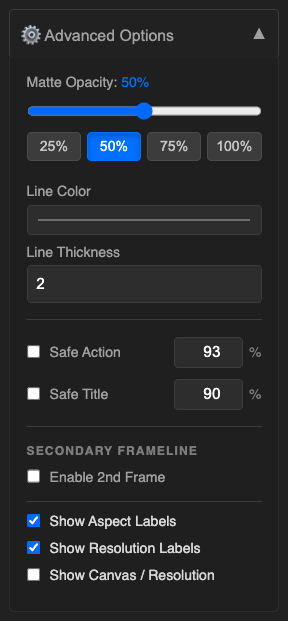
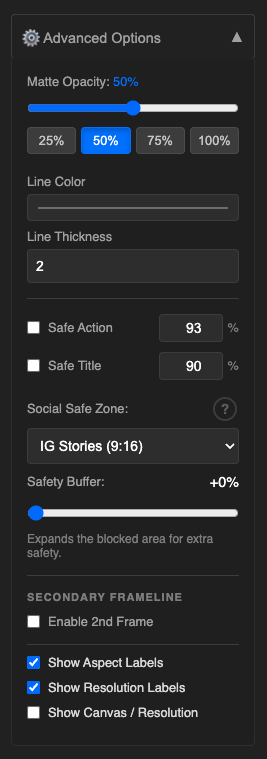
Agregué Social Safe Zones a la guía

diff --git a/guide.html b/guide.html
@@ -372,10 +372,19 @@
                     <li><strong>Line Appearance:</strong> Customize the <strong>Color</strong> and <strong>Thickness</strong> (in pixels) of the main guide to ensure maximum visibility against your footage.</li>
         
                     <li><strong>Safe Areas:</strong> Toggles standard broadcast safety margins—<strong>Action Safe</strong> (93%) and <strong>Title Safe</strong> (90%)—to ensure critical elements aren't cut off on consumer displays.</li>
+
+                    <li><strong>Social Safe Zones:</strong>   Displays framing-safe zones for vertical, mobile-delivered content from social media UI
+  overlays (captions, buttons, avatars) on platforms like Instagram and TikTok.</li>
         
                     <li><strong>Data Labels:</strong> Displays the Aspect Ratio (e.g., "2.39") and Resolution (e.g., "1920 x 804") text directly on the overlay. Essential for DITs and Editors to avoid confusion in post-production.</li>
         
                     <li><strong>Canvas Resolution Label:</strong> Burns the total canvas size (e.g., "Canvas: 1920 x 1080") into the bottom-left corner. Useful for documenting delivery specs.</li>
+
+                      <div class="info-box">
+        Note: <strong>Social Safe Zones</strong> are not broadcast-safe standards. They are visual guides
+  based on common platform UI layouts and should be used as a framing reference.
+    </div>
+
                 </ul>
 
                  <div class="media-container images">
